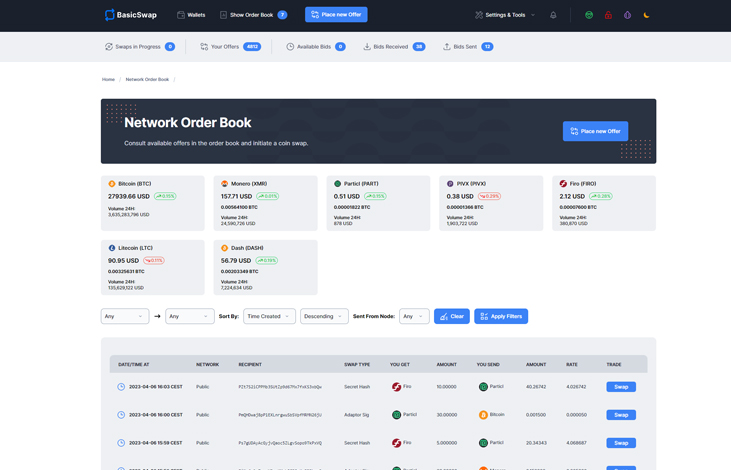
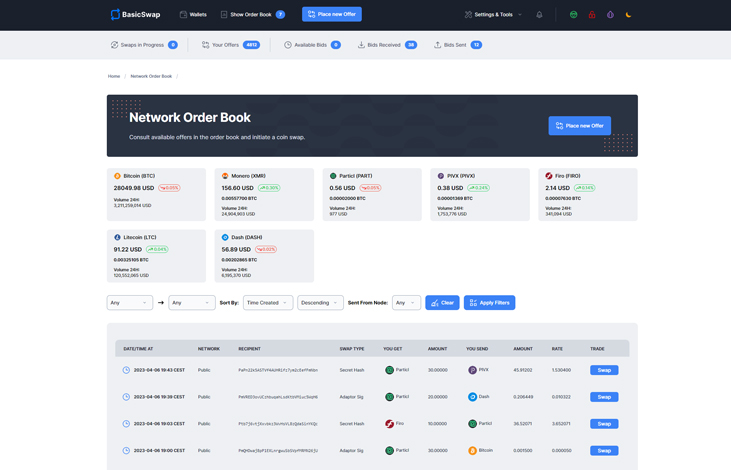
ui: Bug fix + dashboard(s) screenshot update

diff --git a/basicswap/templates/offers.html b/basicswap/templates/offers.html
@@ -235,7 +235,7 @@
 <div class="w-full sm:w-1/2 lg:w-1/5 p-3">
   <div class="px-5 py-3 h-full bg-coolGray-100 dark:bg-gray-500 rounded-lg dark:text-white">
         <div class="flex items-center mb-2.5">
-      <img src="/static/images/coins/bitcoin-20.png" height="20" width="20" class="mr-2">
+      <img src="/static/images/coins/dash-20.png" height="20" width="20" class="mr-2">
       <p class="text-sm text-neutral-500 font-medium">Dash (DASH)</p>
     </div>
     <div class="flex flex-wrap items-center mb-2 -m-1">
